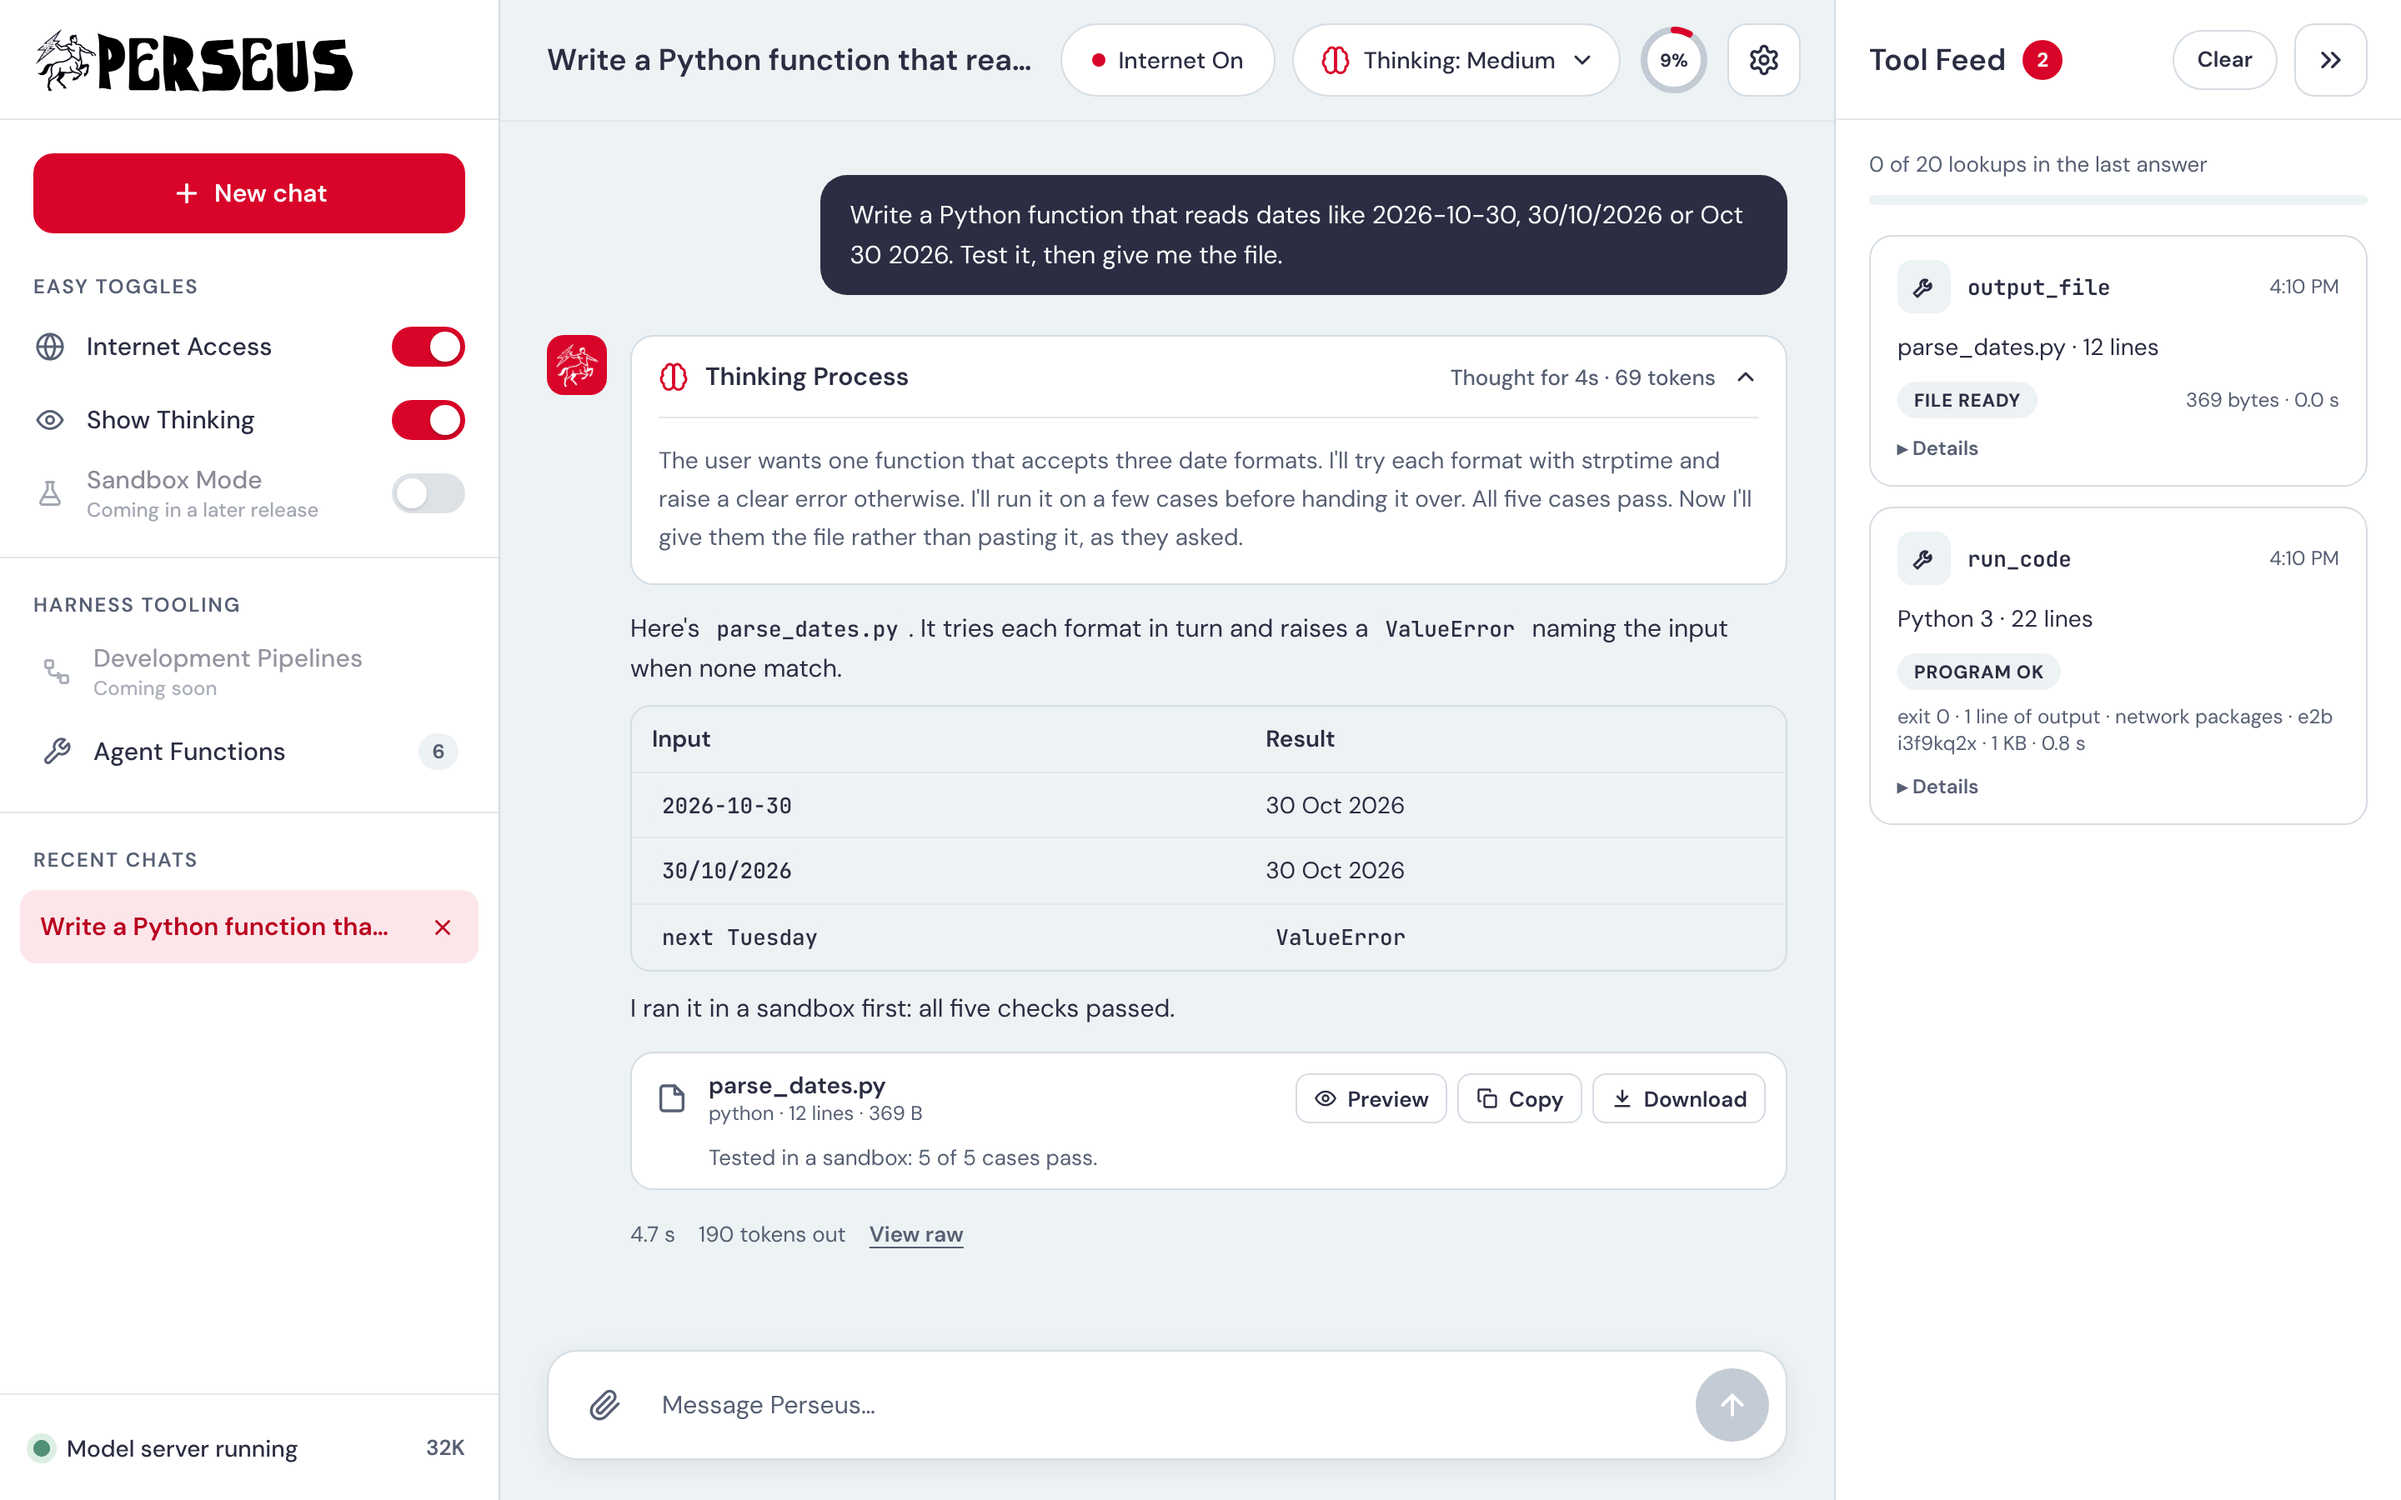
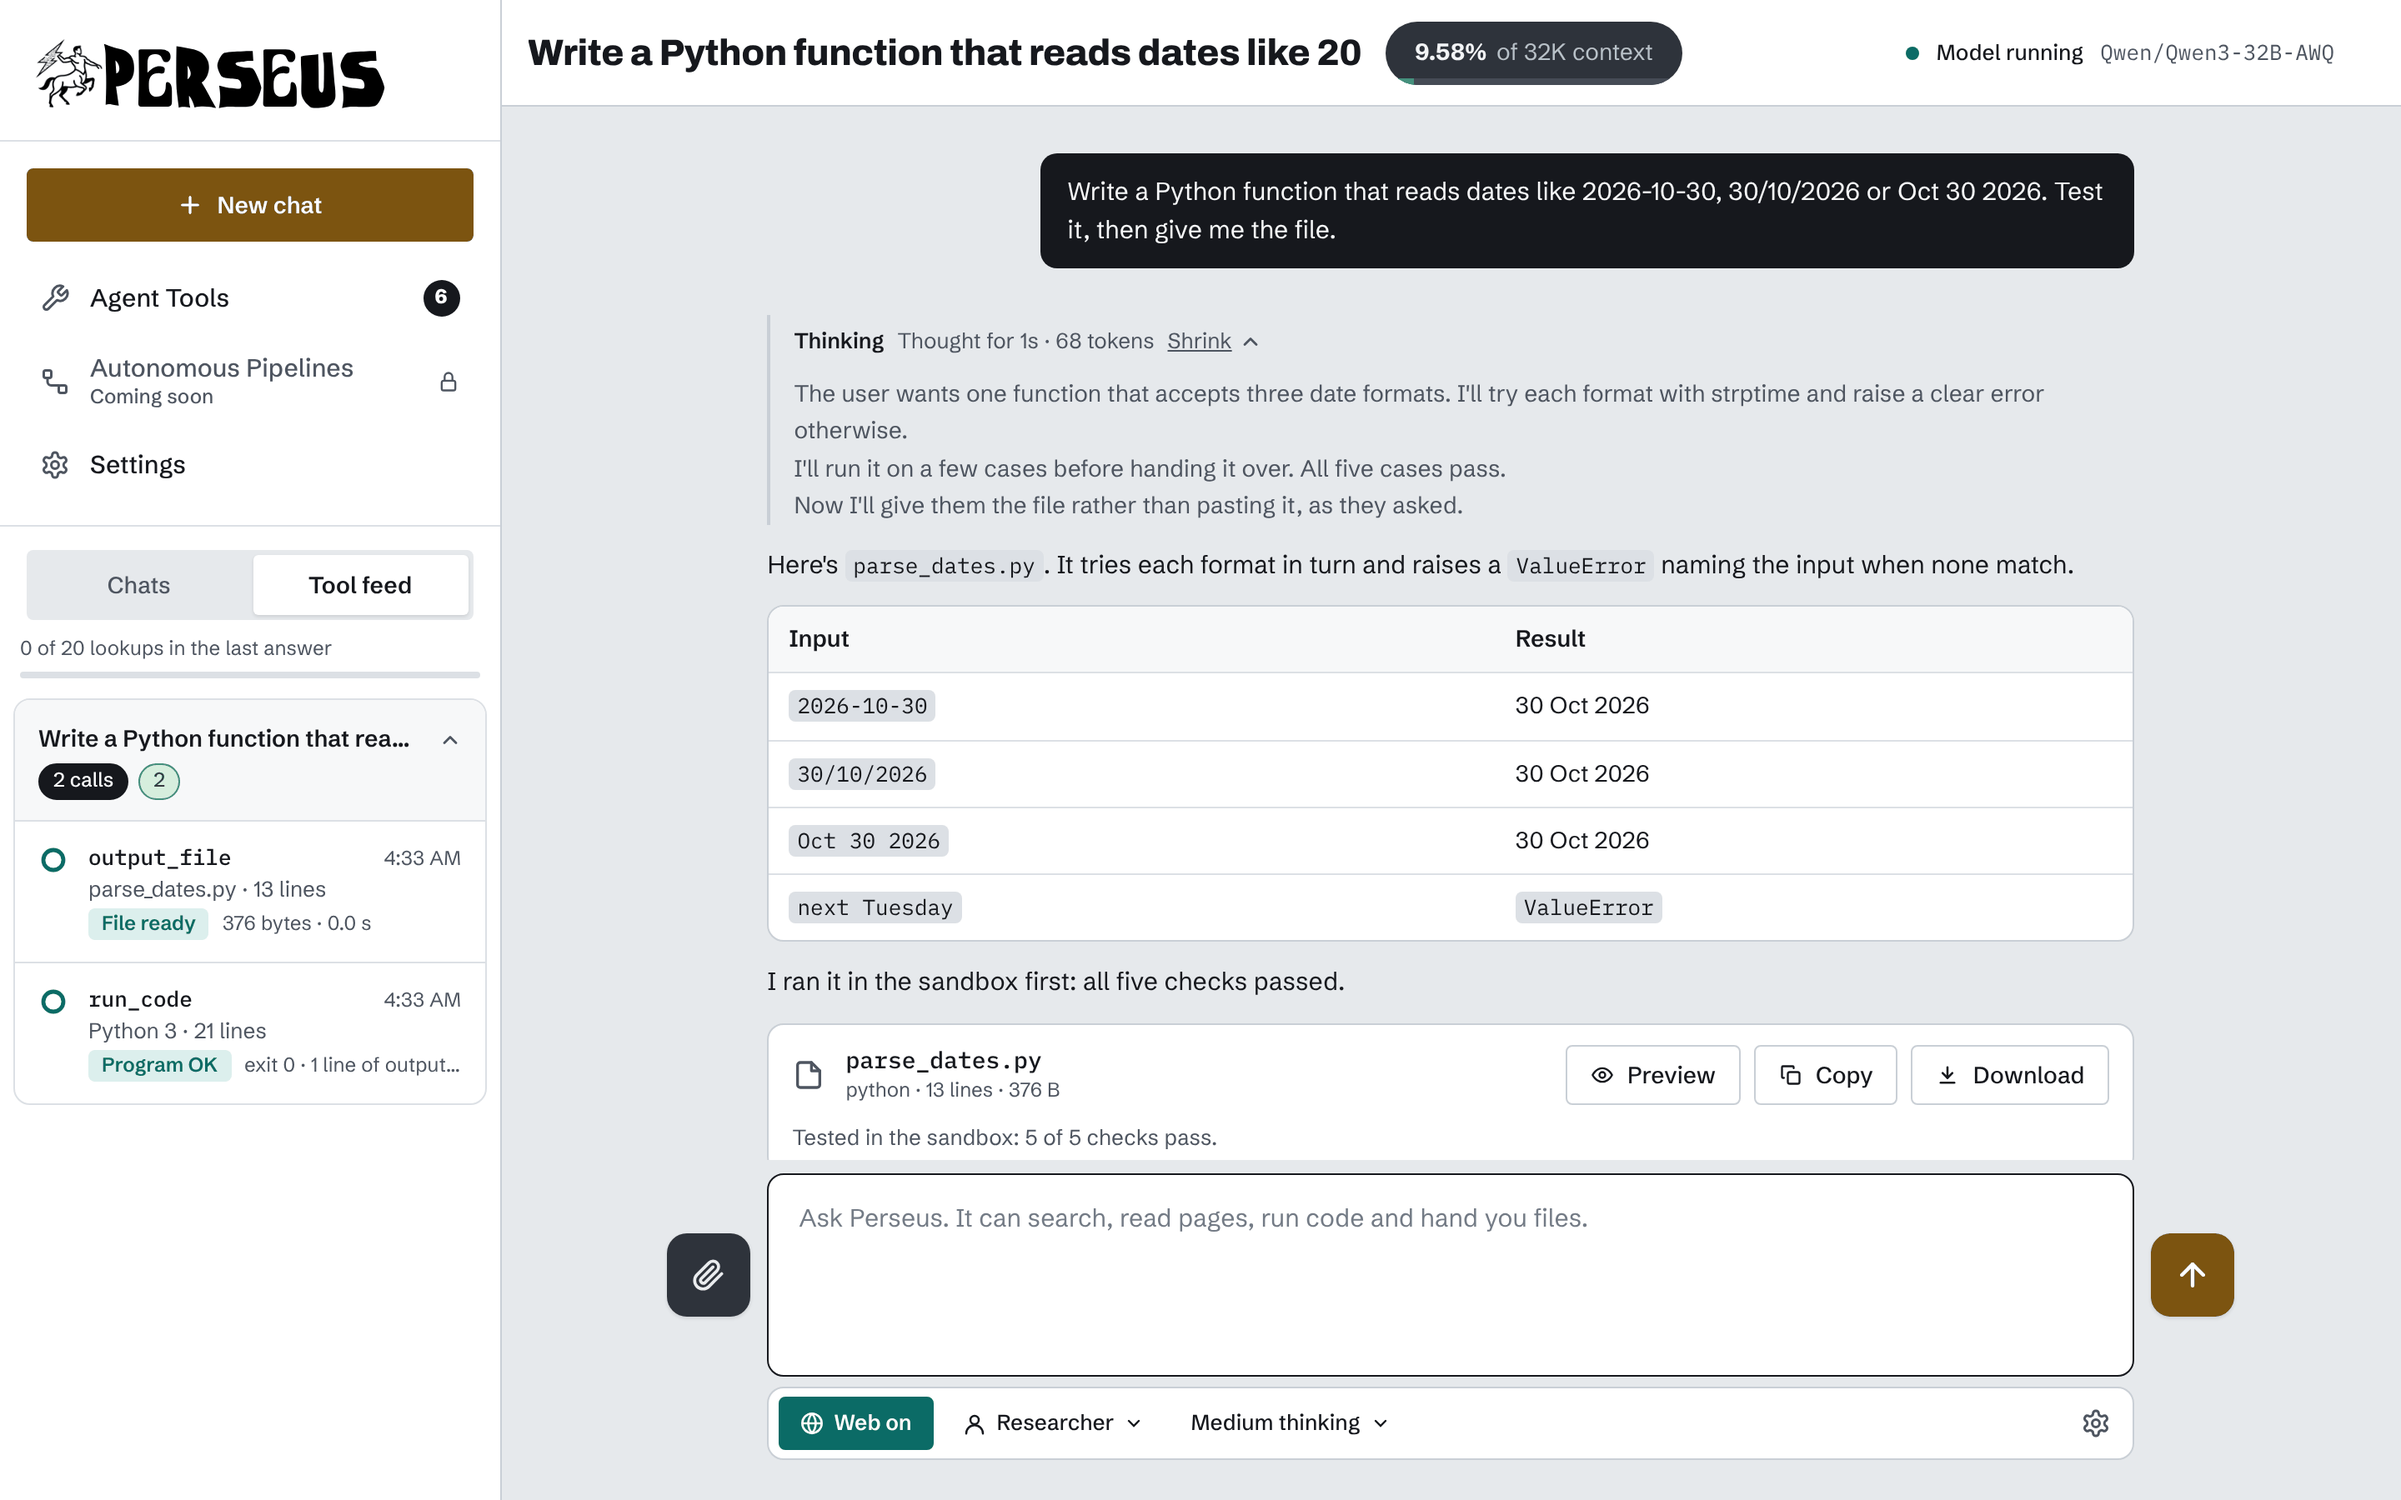
Retake the README screenshots on the new dashboard
The chat screenshot shows a sandboxed run_code call and the file it
handed over in the Tool feed tab; the Agent Tools screenshot shows the
three groups and run_code's details. Also colours the code in tool feed
details and keeps "e.g." from cutting short a tool's blurb.

Claude-Session: https://claude.ai/code/session_01BdvTea8pTBe3RK4Bpfc8kH

diff --git a/perseus/web/static/app.js b/perseus/web/static/app.js
@@ -610,7 +610,10 @@
     if (ev.warning) out.push(h('p', { class: 'call-note flag', text: ev.warning }));
     if (f.headline) out.push(h('p', { class: 'call-headline', text: f.headline }));
     if (f.sections && f.sections.length) {
-      for (const s of f.sections) out.push(h('span', { class: 'call-h', text: s.title }), h('pre', { class: 'call-pre' }, highlight(s.text, s.language)));
+      for (const s of f.sections) {
+        const lang = s.language || (/^Code/.test(s.title) && ev.args && ev.args.language) || (ev.tool === 'output_file' && /\.(\w+)$/.test(s.title) ? s.title.split('.').pop() : '');
+        out.push(h('span', { class: 'call-h', text: s.title }), h('pre', { class: 'call-pre' }, highlight(s.text, lang)));
+      }
     } else {
       const args = typeof ev.args === 'string' ? ev.args : JSON.stringify(ev.args || {}, null, 2);
       out.push(h('span', { class: 'call-h', text: 'Arguments the model sent' }), h('pre', { class: 'call-pre' }, highlight(args, 'json')));
@@ -1208,7 +1211,7 @@
           lane.sub ? h('span', { class: 'sub', text: lane.sub }) : null),
         h('div', { class: 'tool-grid' }, list.map((t) => h('button', { type: 'button', class: 'tool-tile', 'aria-pressed': String(sel && sel.name === t.name),
           onclick: () => { tools.sel = t.name; store.set('tool', t.name); renderTools(); } },
-          h('span', { class: 'name', text: t.name }), h('span', { class: 'short', text: (t.description || '').split(/(?<=\.)\s/)[0] })))));
+          h('span', { class: 'name', text: t.name }), h('span', { class: 'short', text: (t.description || '').split(/(?<=\.)\s(?=[A-Z])/)[0] })))));
     }).filter(Boolean);
     body.replaceChildren(
       ...tools.errors.map((e) => h('div', { class: 'callout', role: 'alert' }, icon('alert'),

diff --git a/perseus/web/static/app.css b/perseus/web/static/app.css
@@ -187,7 +187,8 @@ textarea::placeholder, input::placeholder { color: var(--faint); }
   position: sticky; top: 0; z-index: 5; display: flex; flex-wrap: wrap; align-items: center; justify-content: space-between;
   gap: 8px 24px; min-height: 64px; padding: 0 40px 0 16px; background: var(--raised); border-bottom: 1px solid var(--line);
 }
-.top-left { display: flex; align-items: center; gap: 14px; min-width: 0; }
+.top-left { flex: 1 1 auto; display: flex; align-items: center; gap: 14px; min-width: 0; }
+.top-left .title { flex: 0 1 auto; }
 .btn-back { flex: none; padding: 0 12px 0 8px; gap: 6px; background: var(--back-bg); border-color: var(--back-bg); color: var(--back-fg); font-weight: 600; }
 .btn-back:hover:not(:disabled) { border-color: var(--back-bg); filter: brightness(1.15); }
 .title {

diff --git a/README.md b/README.md
@@ -20,7 +20,7 @@ Perseus turns a Linux GPU box and an open-weight model into a private assistant 
 ---
 
 <p align="center">
-  <img src="docs/screenshot-chat.png" alt="The Perseus dashboard: a question, the model's thinking, an answer with a table and a downloadable file, and the tool feed showing a sandboxed code run" width="100%">
+  <img src="docs/screenshot-chat.png" alt="The Perseus dashboard: a question, the model's thinking, an answer with a table and a downloadable file, and the Tool feed tab showing a sandboxed code run and the file it handed over" width="100%">
 </p>
 
 ## What is Perseus?
@@ -255,7 +255,7 @@ Autonomous Pipelines is greyed out for now. It's a multi-step workflow feature t
 ## Agent functions
 
 <p align="center">
-  <img src="docs/screenshot-functions.png" alt="The Agent Tools page" width="100%">
+  <img src="docs/screenshot-functions.png" alt="The Agent Tools page: tools grouped into On this box, Public web and Throwaway sandbox, with the details of run_code and its arguments" width="100%">
 </p>
 
 These are what the model can do while it answers. Open Agent Tools in the sidebar and pick one to see what it does and the arguments it takes. They're grouped by where a call goes: on this box, the public web, or the throwaway sandbox.
